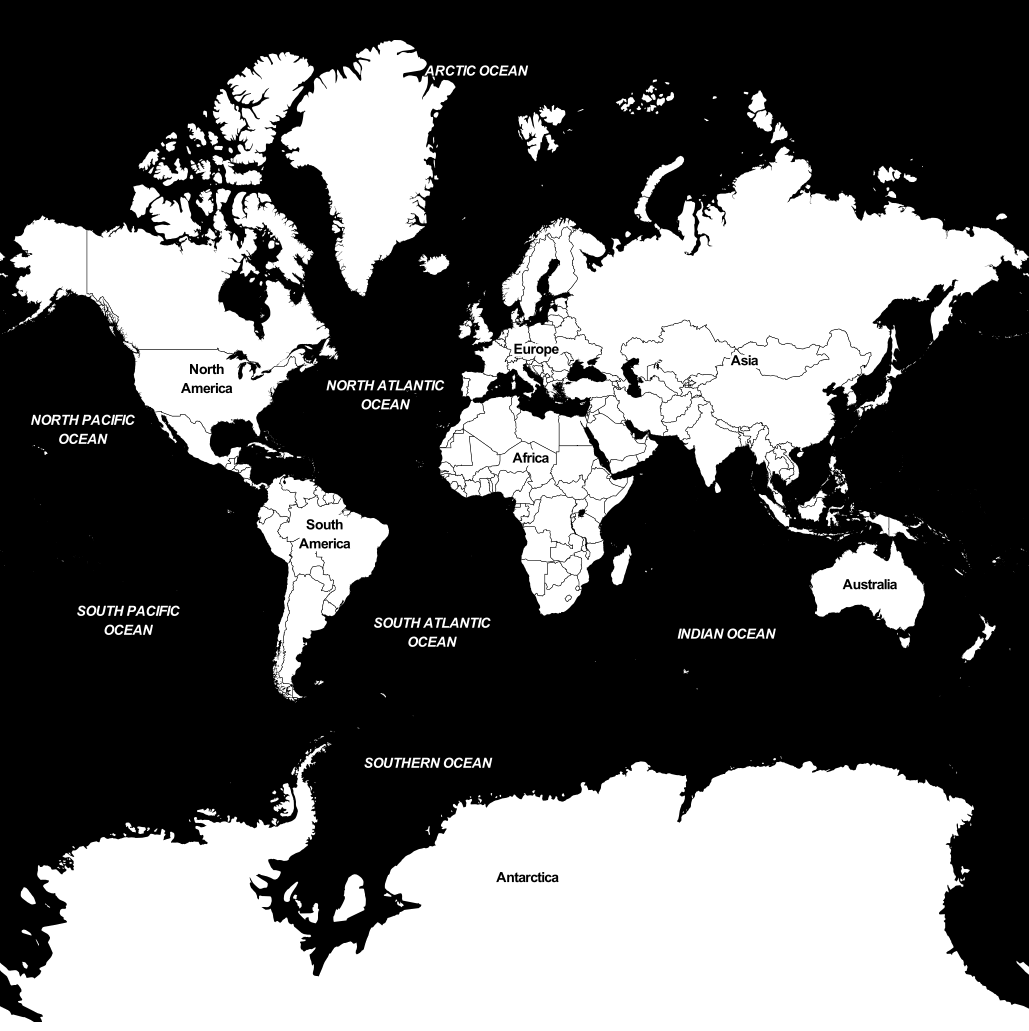
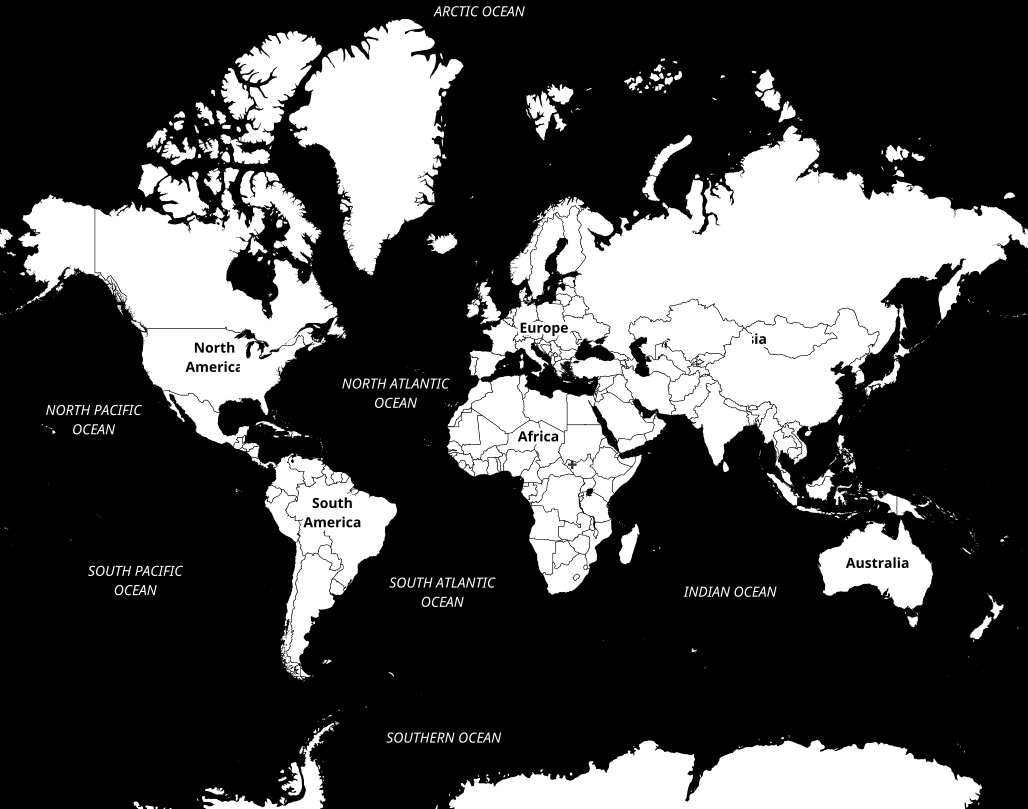
update exemplary image with new fonts

diff --git a/README.md b/README.md
@@ -26,7 +26,7 @@ The original Toner was developed as part of Stamen's
 be found [here](https://github.com/citytracking/toner), for historical
 interest.
 
-![Toner screenshot](raw/master/toner_world.png?raw=true)
+![Toner screenshot](toner_world.png?raw=true)
 
 ## Developing and Deploying
 
